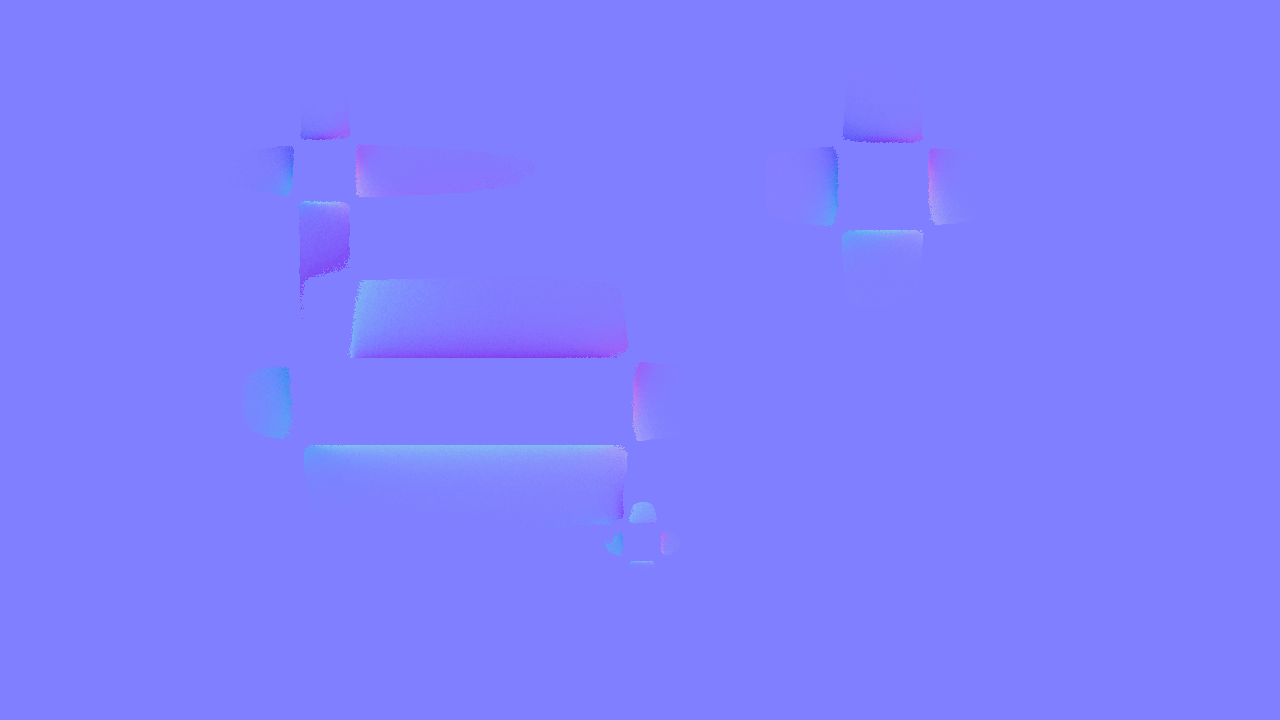
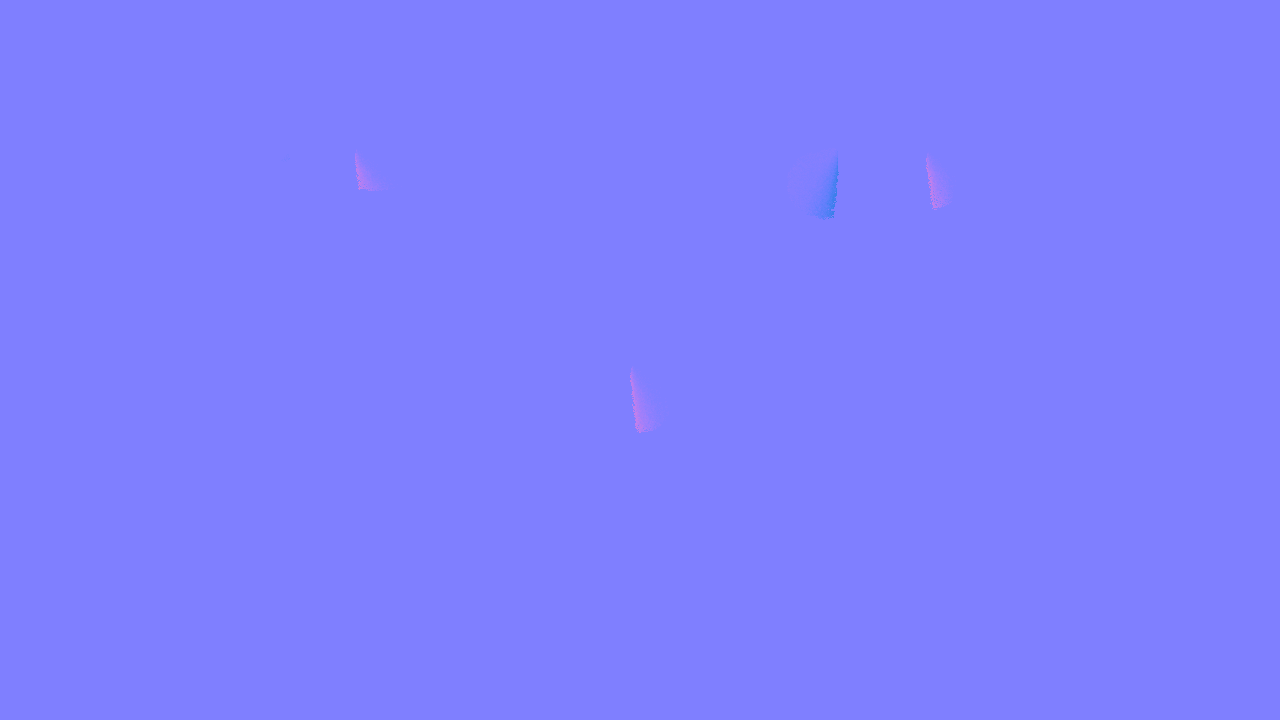
Add photometric-stereo pipeline and outputs
Introduce cv_core_v2.py: a new photometric-stereo implementation with explicit shadow segmentation, normal estimation and Poisson depth integration (DCT-based). Add main.py as a simple entrypoint (calculates light vectors, loads images, runs processar_perspectiva and writes debug/result maps). Commit also adds many generated debug/result images under test_depth/* and uploads/*, updates static result images and Python bytecode caches. Dependencies: OpenCV, NumPy and SciPy (dctn/idctn).

diff --git a/cv_core_v2.py b/cv_core_v2.py
@@ -1,0 +1,204 @@
+"""
+cv_core_v2.py — Estéreo Fotométrico com Segmentação Explícita de Sombras
+"""
+import cv2
+import numpy as np
+from scipy.fft import dctn, idctn
+import os
+
+# ==============================================================
+# 1. SEGMENTAÇÃO E MÁSCARAS LÓGICAS
+# ==============================================================
+def segmentar_cena(imgs: list[np.ndarray], 
+                   thresh_fundo_std: float = 0.03, 
+                   razao_sombra: float = 0.70) -> dict:
+    """
+    Segmenta a cena usando topologia e queda de luz relativa.
+    razao_sombra: Se a luz mínima do pixel for menor que X% da média dele, é sombra.
+    """
+    stack = np.stack(imgs, axis=0)
+    I_std = np.std(stack, axis=0)
+    I_min = np.min(stack, axis=0)
+    I_mean = np.mean(stack, axis=0)
+
+    H, W = imgs[0].shape
+
+    # 1. Encontrar superfícies perfeitamente planas
+    # Apenas olhamos para a variação (std), ignorando o quão claro ou escuro é.
+    planos_totais = (I_std < thresh_fundo_std)
+
+    # 2. Separar o chão verdadeiro dos topos (Flood Fill)
+    im_planos = (planos_totais * 255).astype(np.uint8)
+    mask_fill = np.zeros((H + 2, W + 2), np.uint8)
+
+    cv2.floodFill(im_planos, mask_fill, (0, 0), 128)
+    cv2.floodFill(im_planos, mask_fill, (W - 1, 0), 128)
+    cv2.floodFill(im_planos, mask_fill, (0, H - 1), 128)
+    cv2.floodFill(im_planos, mask_fill, (W - 1, H - 1), 128)
+
+    mask_fundo_limpo = (im_planos == 128)
+    mask_topos = (im_planos == 255)
+
+    # 3. IDENTIFICAÇÃO DE SOMBRA RELATIVA
+    # Em vez de um valor fixo, verificamos se a luz caiu drasticamente.
+    # Ex: se razao_sombra=0.70, a luz mínima tem que ser menor que 70% da luz média.
+    queda_de_luz = I_min < (I_mean * razao_sombra)
+    
+    # É sombra se teve queda de luz e NÃO é uma superfície plana limpa
+    mask_sombra = (~planos_totais) & queda_de_luz
+
+    # 4. Separar sombra no chão vs sombra no objeto
+    kernel = np.ones((5,5), np.uint8)
+    fundo_expandido = cv2.dilate(mask_fundo_limpo.astype(np.uint8), kernel, iterations=3).astype(bool)
+    
+    mask_sombra_chao = mask_sombra & fundo_expandido
+    mask_sombra_objeto = mask_sombra & ~fundo_expandido
+
+    # 5. Consolidar os Objetos
+    # Objeto = o que sobrou (paredes) + as tampas detectadas no Flood Fill
+    mask_objeto_paredes = ~(mask_fundo_limpo | mask_sombra | mask_topos)
+    mask_objeto = mask_objeto_paredes | mask_topos
+
+    mask_chao_total = mask_fundo_limpo | mask_sombra_chao
+
+    return {
+        'fundo_limpo': mask_fundo_limpo,
+        'sombra_chao': mask_sombra_chao,
+        'sombra_objeto': mask_sombra_objeto,
+        'objeto': mask_objeto,
+        'chao_total': mask_chao_total
+    }
+# ==============================================================
+# 2. RESOLUÇÃO FOTOMÉTRICA (Apenas onde importa)
+# ==============================================================
+
+def calcular_normais_segmentadas(imgs: list[np.ndarray], 
+                                 vetores_luz: list[list[float]], 
+                                 mascaras: dict) -> tuple[np.ndarray, np.ndarray]:
+    
+    H, W = imgs[0].shape
+    L = np.array(vetores_luz, dtype=np.float64)
+    L_inv = np.linalg.pinv(L)
+    
+    stack = np.stack([img.flatten() for img in imgs], axis=0) # (4, N)
+    
+    # Vamos calcular apenas onde é OBJETO ou SOMBRA NO OBJETO.
+    # O chão total será forçado para [0,0,1]
+    mask_calc = mascaras['objeto'] | mascaras['sombra_objeto']
+    idx_calc = np.where(mask_calc.flatten())[0]
+    
+    I_calc = stack[:, idx_calc]
+    
+    # Matemática Photometric Stereo (I = L * G)
+    G_calc = L_inv @ I_calc
+    albedo_calc = np.linalg.norm(G_calc, axis=0)
+    N_calc = np.divide(G_calc, albedo_calc, out=np.zeros_like(G_calc), where=albedo_calc > 1e-9)
+    
+    # Remontar mapa completo
+    N_full = np.zeros((3, H * W), dtype=np.float64)
+    N_full[0, idx_calc] = N_calc[0]
+    N_full[1, idx_calc] = N_calc[1]
+    N_full[2, idx_calc] = N_calc[2]
+    
+    # Forçar o Chão Total a ser perfeitamente plano (Normal Z = 1)
+    idx_chao = np.where(mascaras['chao_total'].flatten())[0]
+    N_full[0, idx_chao] = 0.0
+    N_full[1, idx_chao] = 0.0
+    N_full[2, idx_chao] = 1.0
+    
+    nx = N_full[0].reshape(H, W)
+    ny = N_full[1].reshape(H, W)
+    nz = N_full[2].reshape(H, W)
+    
+    return nx, ny, nz
+
+
+# ==============================================================
+# 3. INTEGRAÇÃO DE PROFUNDIDADE (Blindada pela segmentação)
+# ==============================================================
+
+def integrar_depth(nx: np.ndarray, ny: np.ndarray, nz: np.ndarray, mascaras: dict) -> np.ndarray:
+    
+    # Evitar divisão por zero e artefatos de borda extrema
+    nz_safe = np.where(np.abs(nz) < 0.15, 1.0, nz)
+    
+    mask_chao = mascaras['chao_total']
+    
+    # Gradientes p e q: Zero no chão, calculados apenas nos objetos
+    p = np.zeros_like(nx)
+    q = np.zeros_like(ny)
+    
+    p[~mask_chao] = np.clip(-nx[~mask_chao] / nz_safe[~mask_chao], -3.0, 3.0)
+    q[~mask_chao] = np.clip(-ny[~mask_chao] / nz_safe[~mask_chao], -3.0, 3.0)
+    
+    # Solver de Poisson via Transformada Discreta de Cosseno (DCT)
+    rows, cols = p.shape
+    div = np.zeros((rows, cols))
+    div[:-1, :] += q[1:, :] - q[:-1, :] 
+    div[:, :-1] += p[:, 1:] - p[:, :-1] 
+    
+    ii = np.arange(rows).reshape(-1, 1)
+    jj = np.arange(cols).reshape(1, -1)
+    lam = (2.0 * np.cos(np.pi * ii / rows) - 2.0) + (2.0 * np.cos(np.pi * jj / cols) - 2.0)
+    lam[0,0] = 1.0 # Previne divisão por zero
+    
+    Z_dct = dctn(div, norm='ortho') / lam
+    Z_dct[0,0] = 0.0
+    depth_raw = idctn(Z_dct, norm='ortho')
+    
+    # TRAVAR O CHÃO
+    if np.any(mask_chao):
+        base_z = np.median(depth_raw[mask_chao])
+        depth_raw -= base_z
+        
+    depth_raw[mask_chao] = 0.0
+    depth_raw = np.maximum(depth_raw, 0.0)
+    
+    # Normalizar focando apenas na altura dos objetos
+    depth_objeto = depth_raw[~mask_chao]
+    if len(depth_objeto) > 0:
+        d_max = np.percentile(depth_objeto, 98)
+        depth_norm = np.clip((depth_raw) / (d_max + 1e-9) * 255.0, 0, 255)
+    else:
+        depth_norm = np.zeros_like(depth_raw)
+        
+    depth_norm[mask_chao] = 0.0
+    
+    return depth_norm
+
+
+# ==============================================================
+# 4. PIPELINE PRINCIPAL E EXPORTAÇÃO
+# ==============================================================
+
+def processar_perspectiva(caminhos_imagens: list[str], vetores_luz: list[list[float]], dir_saida: str):
+    print("1. Carregando imagens...")
+    imgs = [cv2.imread(c, cv2.IMREAD_GRAYSCALE).astype(np.float64) / 255.0 for c in caminhos_imagens]
+    
+    print("2. Segmentando cena (Fundo, Sombras, Objetos)...")
+    mascaras = segmentar_cena(imgs)
+    
+    # Salvar mapas de debug para você visualizar como ele separou a cena!
+    cv2.imwrite(os.path.join(dir_saida, 'debug_mask_chao_total.png'), mascaras['chao_total'].astype(np.uint8)*255)
+    cv2.imwrite(os.path.join(dir_saida, 'debug_mask_sombras.png'), (mascaras['sombra_chao'] | mascaras['sombra_objeto']).astype(np.uint8)*255)
+    cv2.imwrite(os.path.join(dir_saida, 'debug_mask_objetos.png'), mascaras['objeto'].astype(np.uint8)*255)
+
+    print("3. Resolvendo Normais Fotométricas...")
+    nx, ny, nz = calcular_normais_segmentadas(imgs, vetores_luz, mascaras)
+    
+    # Salvar Normal Map
+    N_rgb = np.stack([
+        np.clip(( nx + 1.0) * 127.5, 0, 255),
+        np.clip((-ny + 1.0) * 127.5, 0, 255),
+        np.clip(( nz + 1.0) * 127.5, 0, 255)
+    ], axis=-1).astype(np.uint8)
+    cv2.imwrite(os.path.join(dir_saida, 'resultado_normal.png'), cv2.cvtColor(N_rgb, cv2.COLOR_RGB2BGR))
+
+    print("4. Integrando Mapa de Profundidade...")
+    depth_norm = integrar_depth(nx, ny, nz, mascaras)
+    
+    depth_suave = cv2.GaussianBlur(depth_norm.astype(np.uint8), (5,5), sigmaX=1.0)
+    depth_colormap = cv2.applyColorMap(depth_suave, cv2.COLORMAP_JET)
+    cv2.imwrite(os.path.join(dir_saida, 'resultado_depth.png'), depth_colormap)
+    
+    print("Concluído! Verifique a pasta de saída para os arquivos debug e resultados finais.")

diff --git a/main.py b/main.py
@@ -1,0 +1,66 @@
+import os
+import math
+import sys
+
+# Importa a função principal do nosso novo core
+from cv_core_v2 import processar_perspectiva
+
+def calcular_vetor_sol(azimute_graus: float, elevacao_graus: float = 45.0) -> list[float]:
+    """
+    Calcula a direção da luz.
+    Azimute: 0=Norte, 90=Leste, 180=Sul, 270=Oeste
+    """
+    az = math.radians(azimute_graus)
+    el = math.radians(elevacao_graus)
+    
+    # Fórmulas de conversão esférica para cartesiana
+    lx = math.sin(az) * math.cos(el)
+    ly = math.cos(az) * math.cos(el)
+    lz = math.sin(el)
+    
+    mag = math.sqrt(lx**2 + ly**2 + lz**2)
+    return [lx/mag, ly/mag, lz/mag]
+
+def main():
+    # 1. Configuração de Diretórios
+    # Usa os.path.join para evitar problemas com barras (\ ou /)
+    pasta_entrada = os.path.join("test_depth", "t3")
+    pasta_saida = os.path.join("test_depth", "t3_resultados")
+    
+    # Cria a pasta de saída se ela não existir
+    os.makedirs(pasta_saida, exist_ok=True)
+
+    # 2. Mapeamento das Imagens
+    # Assumindo formato .png (altere para .jpg se necessário)
+    ext = ".png"
+    caminhos_imagens = [
+        os.path.join(pasta_entrada, f"1{ext}"), # Imagem 1: Luz do Norte
+        os.path.join(pasta_entrada, f"2{ext}"), # Imagem 2: Luz do Leste
+        os.path.join(pasta_entrada, f"3{ext}"), # Imagem 3: Luz do Sul
+        os.path.join(pasta_entrada, f"4{ext}")  # Imagem 4: Luz do Oeste
+    ]
+
+    # Validação rápida de segurança
+    for caminho in caminhos_imagens:
+        if not os.path.exists(caminho):
+            print(f"ERRO: A imagem {caminho} não foi encontrada!")
+            sys.exit(1)
+
+    # 3. Definição dos Vetores de Luz
+    # Assumindo que as luzes no Blender estão a 45º de inclinação para baixo
+    vetores_luz = [
+        calcular_vetor_sol(0),   # Norte
+        calcular_vetor_sol(90),  # Leste
+        calcular_vetor_sol(180), # Sul
+        calcular_vetor_sol(270)  # Oeste
+    ]
+
+    # 4. Execução do Pipeline
+    print(f"Lendo imagens da pasta: {pasta_entrada}")
+    print(f"Salvando resultados em: {pasta_saida}\n")
+    print("-" * 40)
+    
+    processar_perspectiva(caminhos_imagens, vetores_luz, pasta_saida)
+
+if __name__ == "__main__":
+    main()